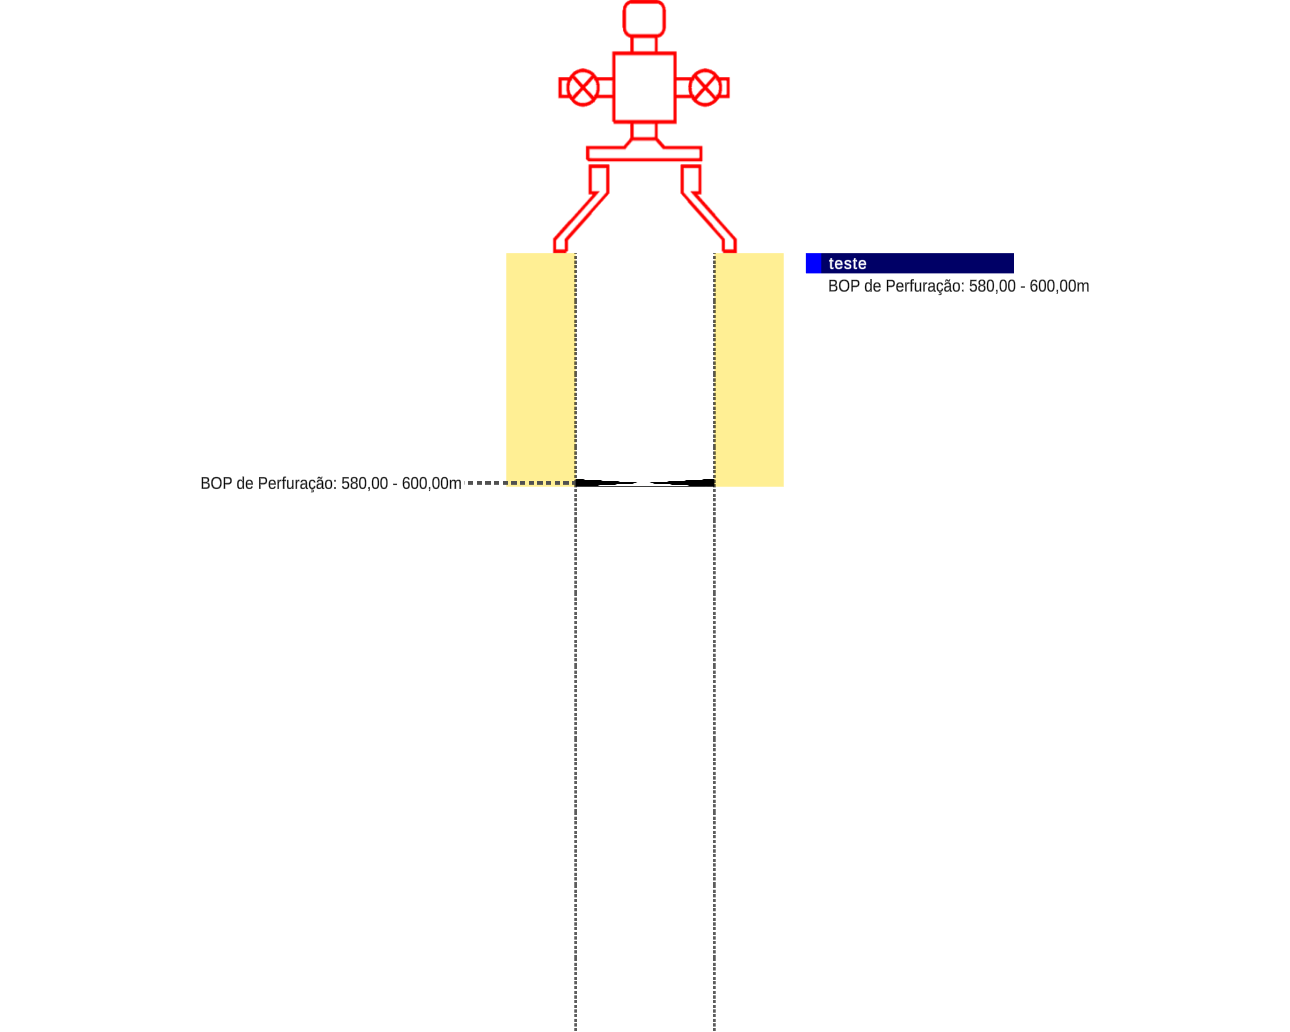
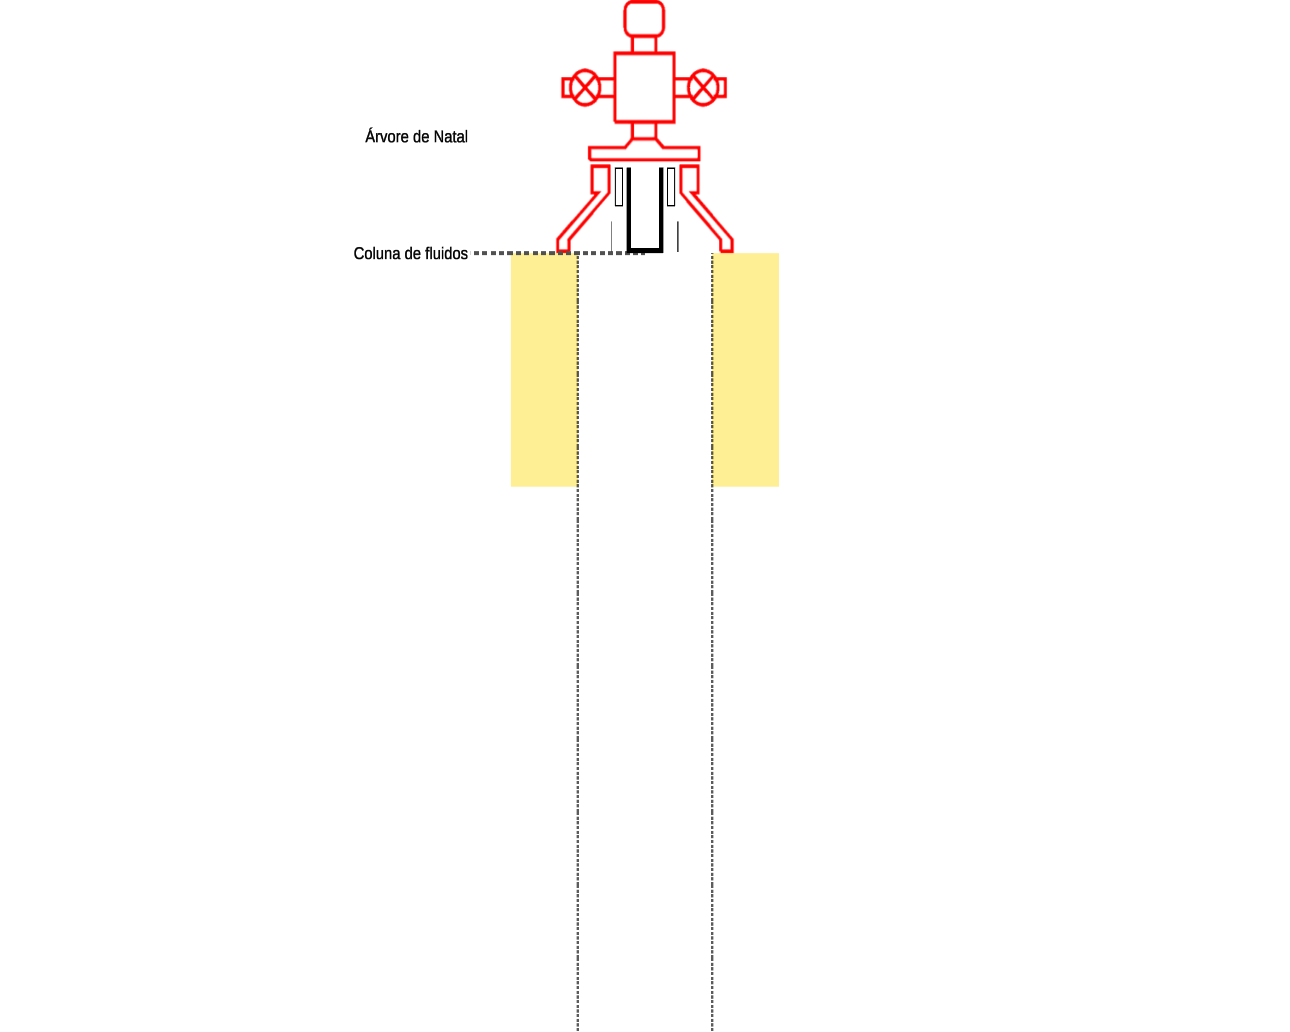
Head name on schematics

diff --git a/Assets/Source/Logic/Scripts/UIGenerator.cs b/Assets/Source/Logic/Scripts/UIGenerator.cs
@@ -19,8 +19,13 @@ public partial class UIGenerator : MonoBehaviour
     [SerializeField] RectTransform canvasLeft;
     [SerializeField] RectTransform canvasRight;
 
+    List<UITextBlockLeft> leftBlocks = new List<UITextBlockLeft>();
+    List<UITextBlockRight> rightBlocks = new List<UITextBlockRight>();
+
     public async UniTask DrawSchematicText(Schematic schematic) 
     {
+        ClearTexts();
+
         var leftElements = schematic.GetAllParts().Where(part => part.WriteText).ToList();
         await WriteLeftText(leftElements);
 
@@ -30,32 +35,34 @@ public partial class UIGenerator : MonoBehaviour
     }
 
 
-    private async UniTask WriteLeftText(List<SchematicItem> schematicItems)
+    public async UniTask WriteLeftText(List<SchematicItem> schematicItems)
     {
-        List<UITextBlockLeft> blocks = new List<UITextBlockLeft>();
+        leftBlocks = new List<UITextBlockLeft>();
 
         foreach (var sItem in schematicItems)
         {
             var textBlock = WriteLeftBlock(sItem);
 
-            if (blocks.Count > 0 && (textBlock.IsOverlappingWith(blocks[blocks.Count - 1]) || textBlock.pivot.position.y > blocks[blocks.Count - 1].pivot.position.y))
+            if (leftBlocks.Count > 0 && (textBlock.IsOverlappingWith(leftBlocks[leftBlocks.Count - 1]) || textBlock.pivot.position.y > leftBlocks[leftBlocks.Count - 1].pivot.position.y))
             {
-                float adjustment = blocks[blocks.Count - 1].pivot.rect.height;
-                textBlock.pivot.anchoredPosition = new Vector2(textBlock.pivot.anchoredPosition.x, blocks[blocks.Count - 1].pivot.anchoredPosition.y - adjustment);
+                float adjustment = leftBlocks[leftBlocks.Count - 1].pivot.rect.height;
+                textBlock.pivot.anchoredPosition = new Vector2(textBlock.pivot.anchoredPosition.x, leftBlocks[leftBlocks.Count - 1].pivot.anchoredPosition.y - adjustment);
             }
 
-            blocks.Add(textBlock);
+            leftBlocks.Add(textBlock);
             await UniTask.WaitForFixedUpdate();
             await UniTask.WaitForFixedUpdate();
         }
 
-        foreach (var block in blocks)
+
+        LineDrawer.instance.ClearLines();
+        foreach (var block in leftBlocks)
         {
             LineDrawer.instance.CreateLine(block);
         }
     }
 
-    private UITextBlockLeft WriteLeftBlock(SchematicItem sItem)
+    public UITextBlockLeft WriteLeftBlock(SchematicItem sItem)
     {
         UITextBlockLeft txtBlock = Instantiate(txtBlockLeftPrefab, canvasLeft);
         txtBlock.gameObject.name = $"LTXT - {sItem.ToString()}";
@@ -99,6 +106,23 @@ public partial class UIGenerator : MonoBehaviour
         UITextBlockRight txtBlock = Instantiate(txtBlockRightPrefab, canvasRight.transform);
         txtBlock.gameObject.name = $"GTXT - {mainGroup._name}";
         txtBlock.WriteGroupBlock(mainGroup, index);
+        rightBlocks.Add(txtBlock);
         return txtBlock;
+    }
+
+    private void ClearTexts() 
+    {
+        foreach (var leftBlock in leftBlocks)
+        {
+            Destroy(leftBlock.gameObject);
+        }
+
+        foreach (var rightBlock in rightBlocks)
+        {
+            Destroy(rightBlock.gameObject);
+        }
+
+        leftBlocks.Clear();
+        rightBlocks.Clear();
     }
 }

diff --git a/Assets/Source/Logic/Scripts/Visual Rendering/SchematicGenerator.cs b/Assets/Source/Logic/Scripts/Visual Rendering/SchematicGenerator.cs
@@ -33,17 +33,6 @@ public class SchematicGenerator : SerializedMonoBehaviour
     [SerializeField] private Canvas _uiCanvas;
     [SerializeField] private UIGenerator uiGenerator;
     [SerializeField] private TerrainGenerator terrainGenerator;
-    [Header("Debug")]
-#if UNITY_EDITOR
-    [SerializeField] private bool writeApiKeyNames;
-#endif
-    [SerializeField] private testMode getSchematicFrom;
-    private bool debugFromInspectorList => getSchematicFrom == testMode.Inspector;
-    private bool debugWebApi => getSchematicFrom == testMode.WebApi;
-    private bool debugJsonString => getSchematicFrom == testMode.JsonString;
-
-    [ShowIf("debugFromInspectorList")][SerializeField] private Schematic debugSchematic;
-    [ShowIf("debugJsonString")][SerializeField][TextArea] private string jsonSchematicText;
     [Space]
     [Header("Header")]
     [SerializeField] private BaseElement cristmasHead;
@@ -60,6 +49,19 @@ public class SchematicGenerator : SerializedMonoBehaviour
     
     [Header("Database")]
     [SerializeField] private List<BaseElement> allElements;
+    [Space]
+    [Header("Debug")]
+#if UNITY_EDITOR
+    [SerializeField] private bool writeApiKeyNames;
+#endif
+    [SerializeField] private testMode getSchematicFrom;
+    private bool debugFromInspectorList => getSchematicFrom == testMode.Inspector;
+    private bool debugWebApi => getSchematicFrom == testMode.WebApi;
+    private bool debugJsonString => getSchematicFrom == testMode.JsonString;
+
+    [ShowIf("debugFromInspectorList")][SerializeField] private Schematic debugSchematic;
+    [ShowIf("debugJsonString")][SerializeField][TextArea] private string jsonSchematicText;
+
 
     public static Dictionary<string, BaseElement> elements;
 
@@ -88,8 +90,7 @@ public class SchematicGenerator : SerializedMonoBehaviour
     [DllImport("__Internal")]
     public static extern void InternalUnityErrorLogger(string errorMessage);
 #endif
-
-private void Start()
+    private void Start()
     {
         elements = new Dictionary<string, BaseElement>();
 
@@ -253,6 +254,10 @@ private void Start()
         SchematicItem head = new SchematicItem();
         head.element = cristmasHead;
         await head.element.StartDraw(head, new Rect(Vector2.zero, Vector2.one * HEAD_SIZE));
+        var text = uiGenerator.WriteLeftBlock(head);
+        text.transform.GetComponent<RectTransform>().position = new Vector2(text.transform.position.x, text.transform.position.y + 1.5f);
+        LineDrawer.instance.CreateHeadLine(text);
+
     }
 
     private async UniTask DrawColum(Schematic schematic)
@@ -290,6 +295,10 @@ private void Start()
             {
                 lastAbstractDeph -= partsSpace.VirtualToRealScale();
             }
+
+            var text = uiGenerator.WriteLeftBlock(schematic.column[i]);
+            text.transform.GetComponent<RectTransform>().position = new Vector2(text.transform.position.x, text.transform.position.y);
+            LineDrawer.instance.CreateLine(text);
         }
     }
 

diff --git a/Assets/LineDrawer.cs b/Assets/LineDrawer.cs
@@ -7,6 +7,8 @@ public class LineDrawer : MonoBehaviour
     [SerializeField] LineRenderer lineRenderer;
     public static LineDrawer instance;
 
+    private List<LineRenderer> lines = new List<LineRenderer>();
+
     private void Awake()
     {
         instance = this;
@@ -19,5 +21,24 @@ public class LineDrawer : MonoBehaviour
         line.SetPosition(0, new Vector3(textBlock.LinePivot.transform.position.x, textBlock.LinePivot.transform.position.y, 0));
         float yPos = textBlock.schematicItem.element._drawRectLine ? textBlock.LinePivot.transform.position.y : -textBlock.schematicItem.GetMidPoint().RealToVirtualScale();
         line.SetPosition(1, new Vector3(xPos, yPos, 0));
+        lines.Add(line);
+    }
+
+    public void ClearLines()
+    {
+        foreach (var line in lines)
+        {
+            Destroy(line.gameObject);
+        }
+        lines = new List<LineRenderer>();
+    }
+    public void CreateHeadLine(UITextBlockLeft textBlock)
+    {
+        LineRenderer line = Instantiate(lineRenderer);
+        float xPos = textBlock.schematicItem.element._columItem ? 0 : -0.95f;
+        line.SetPosition(0, new Vector3(textBlock.LinePivot.transform.position.x, textBlock.LinePivot.transform.position.y, 0));
+        float yPos = textBlock.schematicItem.element._drawRectLine ? textBlock.LinePivot.transform.position.y : -textBlock.schematicItem.GetMidPoint().RealToVirtualScale();
+        line.SetPosition(1, new Vector3(xPos, yPos + 1.5f, 0));
+        lines.Add(line);
     }
 }
